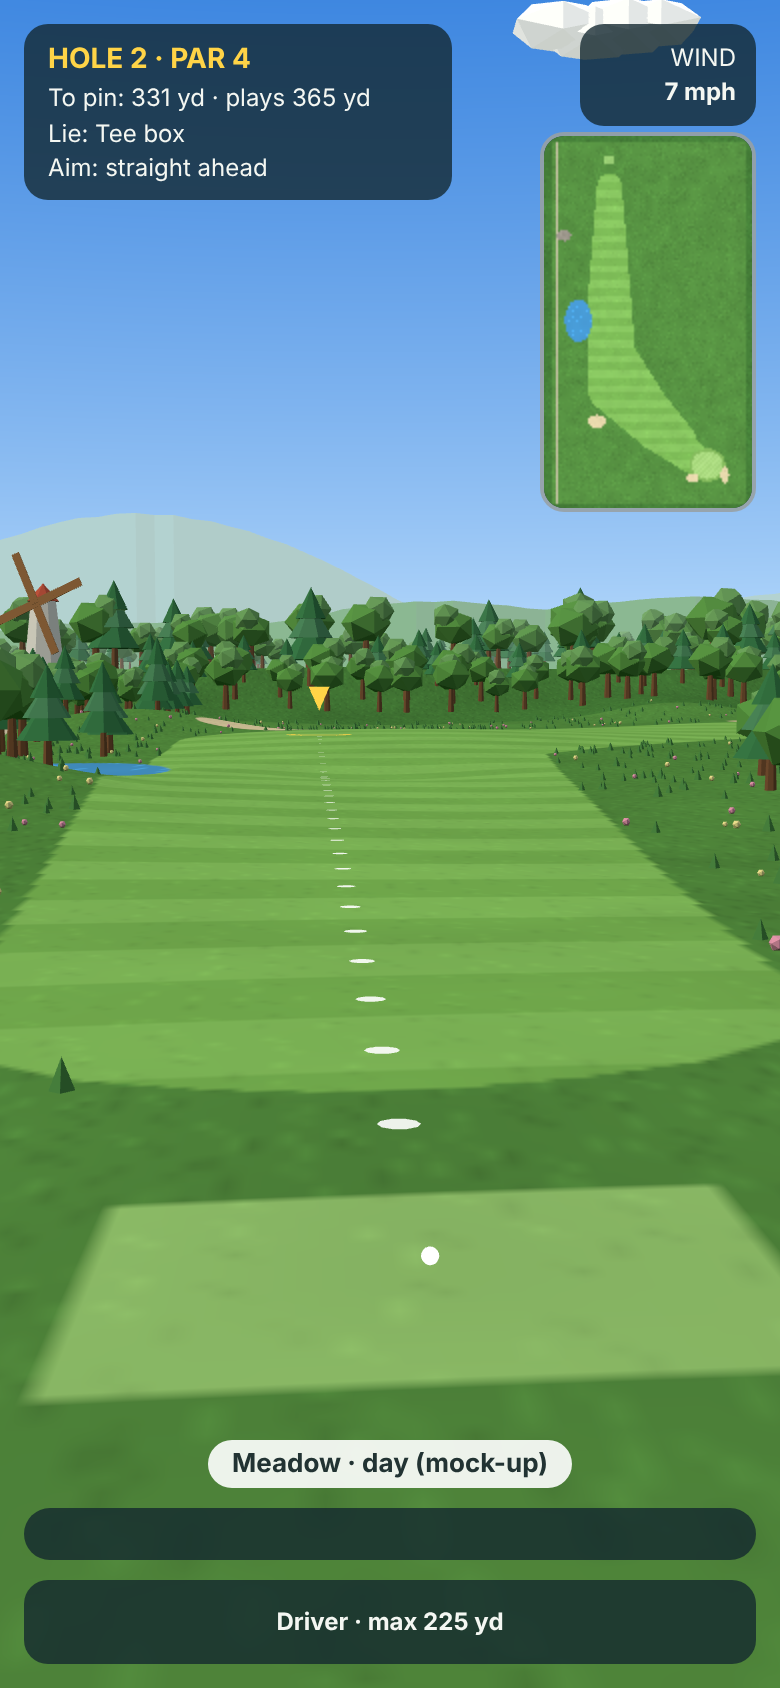
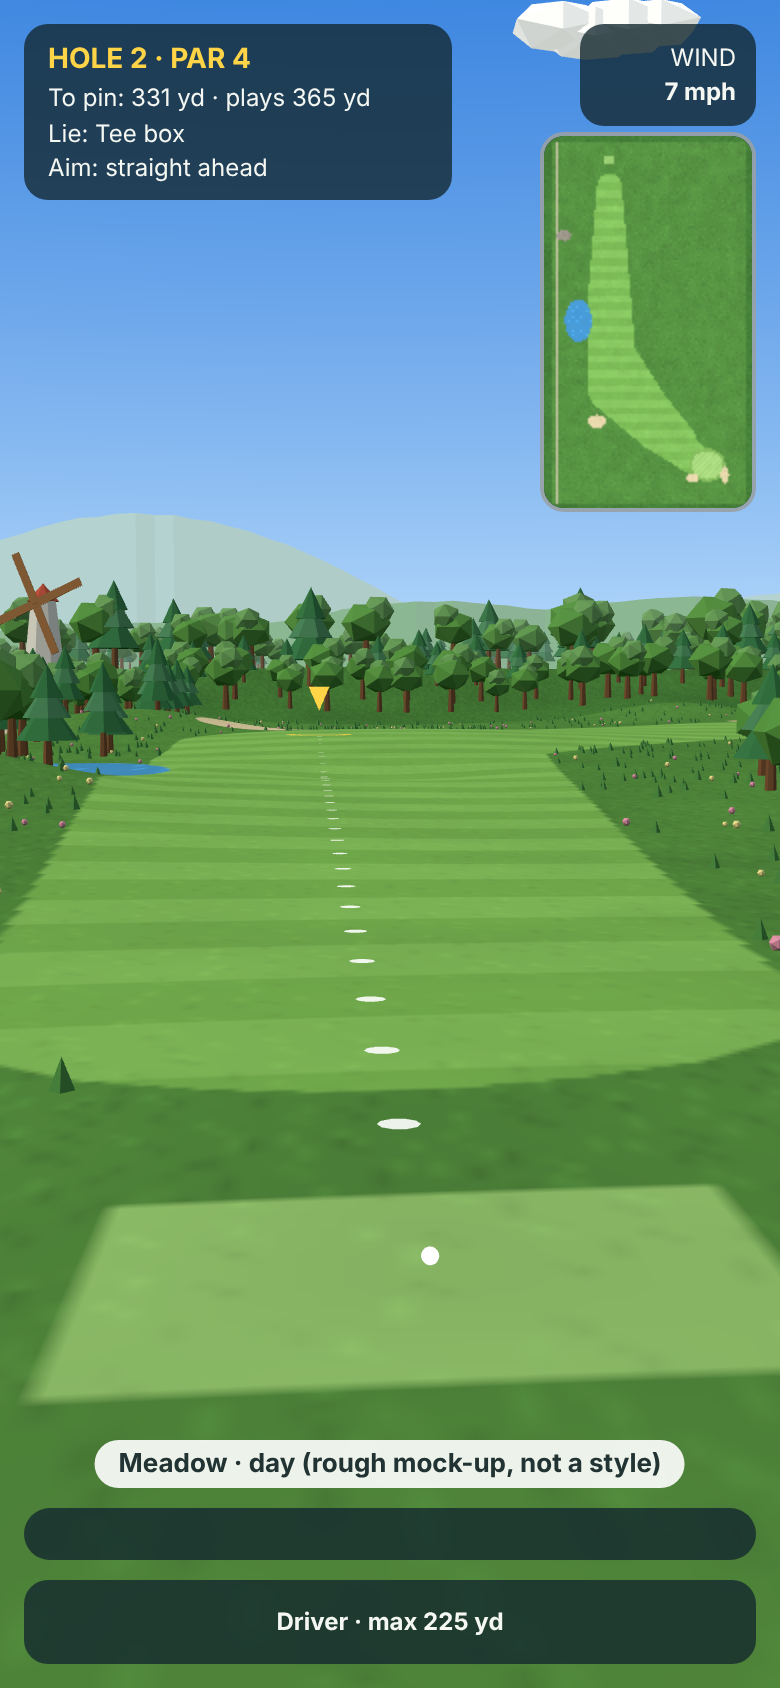
Art: mark round 1 images as rough concept mock-ups, example palettes, no CC0 hunt yet
Claude-Session: https://claude.ai/code/session_01Rv6NgD3SyNhU2FmopfaNrL

Changed region(s): [[0.1231, 0.8318, 0.8923, 0.8934]]

diff --git a/docs/art/biome-sets/sheets.html b/docs/art/biome-sets/sheets.html
@@ -73,7 +73,7 @@ function checks(P) {
 if (mode === 'palette') {
   const P = PALETTES[q.get('p') || 'alpine-day'];
   const biome = Object.values(BIOMES).find(b => b.palettes.includes(P.id));
-  h(`<h1>${P.label}</h1><p class="sub">Palette <code>${P.id}</code>${P.base ? ` · a variant of <code>${P.base}</code> (time of day)` : ''} · biome: ${biome?.name ?? '-'}</p>`);
+  h(`<h1>${P.label}</h1><p class="sub"><b>Example palette (rough, to show recolouring; not a style proposal)</b><br>Palette <code>${P.id}</code>${P.base ? ` · a variant of <code>${P.base}</code> (time of day)` : ''} · biome: ${biome?.name ?? '-'}</p>`);
   h(`<div class="sky" style="background:linear-gradient(${P.skyTop}, ${P.skyHorizon} 70%, ${P.fog})"><div style="position:absolute;left:0;right:0;bottom:0;height:30px;background:linear-gradient(transparent, ${P.backFar} 0)">
      <svg viewBox="0 0 358 30" width="100%" height="30" style="position:absolute;bottom:0"><polygon points="0,30 40,8 70,20 110,2 150,22 190,6 230,24 280,4 320,18 358,10 358,30" fill="${P.backNear}"/><polygon points="102,6 110,2 118,7" fill="${P.backCap}"/><polygon points="272,8 280,4 288,9" fill="${P.backCap}"/></svg></div></div>`);
   h(`<h2>Surfaces (course textures are recoloured by these)</h2><div class="grid">${[['tee'], ['fairwayA', 'fairway A'], ['fairwayB', 'fairway B'], ['fringe'], ['greenA', 'green A'], ['greenB', 'green B'], ['rough'], ['deepRough', 'deep rough'], ['sand'], ['water'], ['waterDeep', 'deep water'], ['rock'], ['path']].map(([k, n]) => sw(P, k, n)).join('')}</div>`);

diff --git a/docs/art/biome-sets/mockup.html b/docs/art/biome-sets/mockup.html
@@ -41,7 +41,7 @@ const raw = BIOMES[biomeId];
 const B = raw.base ? { ...BIOMES[raw.base], ...raw } : raw;      // option B: a variant borrows from its base
 const P = PALETTES[q.get('palette') || B.palette];
 if (q.get('hud') === '0') document.body.classList.add('nohud');
-document.getElementById('tag').textContent = `${B.name.split(' (')[0]} · ${P.label.split(' · ')[1]} (mock-up)`;
+document.getElementById('tag').textContent = `${B.name.split(' (')[0]} · ${P.label.split(' · ')[1]} (rough mock-up, not a style)`;
 document.body.style.background = P.skyHorizon;
 const SEA = B.backdrop === 'seaHorizon'; // beach: beyond the left OB the ground drops to a beach and the sea
 

diff --git a/docs/ART_STYLE.md b/docs/ART_STYLE.md
@@ -1,6 +1,8 @@
 # Pocket Links: art style guide (living document)
 
-Owner: the Artist, with Alexis (owner / game designer). Status: **ART0 round 1 proposal**, nothing below is decided unless marked **(owner)**. Images: `docs/art/biome-sets/`.
+Owner: the Artist, with Alexis (owner / game designer). Status: **ART0 round 1: the biome-set CONCEPT only.** Nothing below is decided unless marked **(owner)**. Images: `docs/art/biome-sets/`.
+
+> **All images in this round are rough mock-ups to explain the structure, not a style proposal.** The look (shapes, textures, colours) is a separate talk with the owner in round 2, with his examples, before any asset work. No real assets are made or downloaded, nothing is added under `assets/`.
 
 — Agent: artist
 
@@ -10,7 +12,7 @@ Owner: the Artist, with Alexis (owner / game designer). Status: **ART0 round 1 p
 - **Chibi 3D golfers** later (rigged, standard Mixamo-compatible skeleton for all golfers; rivals are never shown).
 - The **pixel / PS1 effect is a player setting**, not the base look. Every asset must read well both clean and pixelated.
 
-### Do / don't
+### Do / don't (provisional, to settle in the style talk)
 | Do | Don't |
 |---|---|
 | Big simple shapes, 5-8 sided cones and low icosahedrons, flat shading | Photo textures, normal maps, realistic bark or leaves |
@@ -53,7 +55,7 @@ Both options keep **one shared library** (`assets/`, one copy of each model, tex
 - **Sky / fog / light:** `skyTop`, `skyHorizon`, `cloud`, `fog`, `sun` (sun tint), `ambient` (sky light), `shadow` (shadow tint, the hemisphere ground colour: never black).
 - **Backdrop tint:** `backFar`, `backNear`, `backCap` (snow / tops), `backCapShade`.
 - **Trees and props tint:** `pine`, `trunk`, `leaf`, `leafAlt`, `trunkAlt`, `wood`, `roof`, `propSnow` (light parts), `propA`/`propB` (flowers), `glass`.
-- Hex values for the four palettes are in `docs/art/biome-sets/draft-data.js` and on the palette sheets (images 30-34).
+- The five **example** palettes (to show the recolouring idea, not final colours) are in `docs/art/biome-sets/draft-data.js` and on the sheets (images 30-34). Final palettes come after the style talk.
 
 ### 4.2 Time of day = a palette variant
 No lighting engine: a "sunset" palette changes the sky gradient, fog, sun and ambient tint, the shadow tint, the backdrop tint (pink caps) and shifts the surfaces warmer. It must still pass every readability rule below. A biome lists the palettes it offers (`alpine-day`, `alpine-sunset`), and the hole (or later the playlist) chooses one.
@@ -99,7 +101,7 @@ Also: the course is always lighter and more saturated than the backdrop; no surf
 
 Later examples (desert, city park, sea cliffs, Georgia pines…) reuse the same library: mostly a new palette plus 1-3 new pieces each (image 03).
 
-## 7. Asset list (round 1, nothing made yet)
+## 7. Asset list (round 1, rough, nothing made yet)
 | Asset | Used by | Triangles | Notes |
 |---|---|---|---|
 | 10 greyscale ground textures | all | - | 256², stylised, made by the artist (procedural in the mock-up) |
@@ -115,12 +117,7 @@ Later examples (desert, city park, sea cliffs, Georgia pines…) reuse the same 
 | Beach hut | Island | ~200 | |
 | Backdrops: round hills, snowy peaks, sea + volcano | one each | ≤ 2k each | tint zones |
 
-**CC0 sources that could fit the light cartoony style** (all CC0 1.0, free for commercial use, no attribution required; to be checked asset by asset and recorded in `assets/CREDITS.md` when a file is added):
-- Kenney (kenney.nl): Nature Kit, Platformer Kit, Minigolf Kit. CC0.
-- Quaternius (quaternius.com): Ultimate Nature, Stylized Nature, Farm and buildings packs. CC0.
-- Poly Pizza (poly.pizza): many Quaternius and Kenney models; **check each model**, some are CC-BY (attribution needed).
-- ambientCG / Poly Haven: CC0 textures, but photo-based, so only as a starting point to repaint, never as is.
-Our own models in Blender remain the default for the hero pieces (pine, lodge), so the look stays ours.
+Triangle counts are rough targets for the budget, not designs. **CC0 / licensed sources: to do after the style talk** (every file added later is recorded in `assets/CREDITS.md`).
 
 ## 8. Mock-up tools (artist only)
 `docs/art/biome-sets/mockup.html` renders one hole shaped like `mtn-02` from the draft data (`?biome=grassland|mountain|beach|mountain-warm`, `&palette=`, `&view=approach`, `&hud=0`). `sheets.html` draws the palette sheets and diagrams (`?mode=palette&p=…|textures|structure|options|matrix`). Both are stand-alone pages that use only the vendored Three.js; they are not part of the game.
